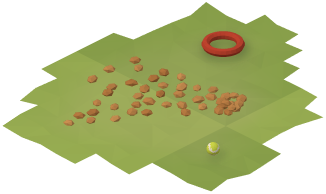
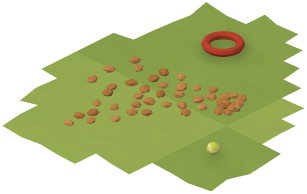
G5d round 2 (row 15): the kibble's lawn wash removed
D58 (Sonnet; the main thread had seen it): a soft pale wash, about +7 to +12 in R and B, lightened and flattened the
board's lawn round the kibble and the ring. It was the decal's own "trampled grass" tint (a lerp toward the fence's
tan, up to 0.18). The grass under the kibble is now copied unchanged, as round the mud and the bowl; the kibble, the
ring and the ball are as they were. On the copied lawn the shift is now R -0.29, B +0.10 on average (the shipped
board's own lossy noise), the same as the mud and the bowl; 28,172 of the decal's opaque pixels equal the clean board
exactly and the 1 to 8 level ones are shadow tails, nearly all darker.

Only mess-kibble.webp and set.json changed (its width, and the note's wording); mud, bowl, board, every gm-*.webp and
the cast keep their exact bytes. The kibble's D58 passes for the new bytes are still to come.

diff --git a/Tools/Art/set/src/mess.js b/Tools/Art/set/src/mess.js
@@ -3,12 +3,11 @@
 // rendered through the board's own frame (render.js, renderDecal), so each lands exactly in its light and perspective.
 //   mud     flat wet mud, darker and glossier toward its middle, two tracks of paw prints leading out of it, fading as
 //           the mud wears off the paws
-//   kibble  a spill of kibble fanning out from a heap, a red rubber ring and a tennis ball, on trampled grass
+//   kibble  a spill of kibble fanning out from a heap, a red rubber ring and a tennis ball
 //   bowl    a steel water bowl knocked over on its side, the puddle flowing out of its mouth, a few drops beyond it
 // Each is three parts, as board.js's lawn() and decalGroup() take them:
-//   tintAt(p, colour)   the grass round its pieces, vertex by vertex: a soft field fading to nothing (the kibble's
-//                       trampled grass), or the colour unchanged (round the mud and the puddle: no stain), or null to
-//                       leave a vertex alone. The lawn's cells it touches are copied with the lawn's own vertices, facet
+//   tintAt(p, colour)   the grass round its pieces, vertex by vertex: the colour unchanged (no stain, no wash, no
+//                       band round any of the three), or null to leave a vertex alone. The lawn's cells it touches are copied with the lawn's own vertices, facet
 //                       tones and occlusion, so they meet the board's lawn exactly; they also join a decal's pieces into
 //                       one patch (no loose specks).
 //   shadeAt(p)          its own baked soft occlusion on the grass (1 everywhere now: the objects are grounded by
@@ -35,7 +34,6 @@ const toWorld = (p) => [-p.z, -p.x, p.y];
 // the toys', the mud's sheen and the steel's highlight.
 export const MC = {
   mud: C.soil, mudDeep: C.soilDeep, sheen: col('#9C8C78'),
-  worn: C.wood, // trampled grass yellows toward the fence's tan
   kibble: col('#B5773D'), kibbleLight: col('#CF9858'),
   ring: col('#C8432F'), ball: col('#D3E84A'), seam: col('#F6F5EE'),
   water: C.water, waterLight: col('#B9D3DD'),
@@ -264,14 +262,12 @@ function kibble(s) {
     { x: Bl.x, y: Bl.y, r: 0.034, dx: 0.45, dy: 0.5 },
   ];
 
-  // trampled grass under all of it (one patch: the hull of everything, a little wider), more round the heap
-  const all = [...pieces.map((q) => [q.x, q.y]), ...contacts.map((c) => [c.x, c.y])];
-  const H = hull(all);
+  // no tint under it: the grass round everything (their hull, a little wider) is the board's own, copied unchanged only
+  // to join the pieces into one patch (a trampled tint toward the fence's tan read as a pale wash: D58, Oct 29)
+  const H = hull([...pieces.map((q) => [q.x, q.y]), ...contacts.map((c) => [c.x, c.y])]);
   const tintAt = (p, clr) => {
     const [x, y] = toWorld(p);
-    const tramp = 1 - sstep(-0.06, 0.2, polySigned([x, y], H)), heap = 1 - sstep(0.05, 0.32, Math.hypot(x - s.x, y - s.y));
-    if (tramp <= 0 && heap <= 0) return null;
-    return clr.clone().lerp(MC.worn, 0.1 * tramp + 0.08 * heap);
+    return polySigned([x, y], H) < 0.2 ? clr : null;
   };
   return { id: s.id, below: s.below, tintAt, shadeAt: () => 1, flats, objects, contacts };
 }

diff --git a/docs/art-provenance/set.md b/docs/art-provenance/set.md
@@ -21,9 +21,9 @@ Code agent, package WP4b-r2) to review round 2, row 15 of `.claude/docs/reviews/
 | `set/gm-done.webp` | the week is over: the band lit a pale warm white | 114 × 240 | 2,834 | `e12e5f32915d` |
 | `set/gm-page-ready.webp`, `set/gm-page-running.webp`, `set/gm-page-done.webp` | the same three at the page's size (64 CSS px), for the status line, the orb centred | 128 × 128 | 2,200; 2,724; 2,512 | `d4b7bfb2b2d9`, `23e8fa0b7bc1`, `d44de11da266` |
 | `set/mess-mud.webp` | the mess under cleanliness 50: flat wet mud, darker and glossier toward its middle, two tracks of paw prints leading out of it | 341 × 414 | 33,392 | `b4a14ed85bc6` |
-| `set/mess-kibble.webp` | under 30: a spill of kibble from a heap, a red rubber ring and a tennis ball, on trampled grass | 326 × 194 | 26,926 | `9c53a1a47040` |
+| `set/mess-kibble.webp` | under 30: a spill of kibble from a heap, a red rubber ring and a tennis ball | 307 × 194 | 21,598 | `3bd31fcda4b1` |
 | `set/mess-bowl.webp` | under 10: a steel water bowl knocked over on its side, the puddle flowing out of its mouth, a few drops | 475 × 203 | 17,726 | `cd9e84ee3af3` |
-| `set.json` | the contract (`manifest.ts`'s `SetManifest`): the board's map, the GM's anchors and `gmSpot`, `mess`, plus `gmPage`, `walk`, `shadow` and `_notes` | | 4,951 | `c23456b97134` |
+| `set.json` | the contract (`manifest.ts`'s `SetManifest`): the board's map, the GM's anchors and `gmSpot`, `mess`, plus `gmPage`, `walk`, `shadow` and `_notes` | | 4,970 | `d74e19f2f06c` |
 
 Every image is at 2× the yard's CSS size, lossy WebP with a real alpha channel (the mess decals: lossless WebP). The hashes are this render's; the
 render is deterministic (two runs on Oct 28 gave byte-identical files), so a rerun on the same tools reproduces them.
@@ -61,6 +61,15 @@ byte-identical (SHA-256 before and after); `set.json` changed only in its `mess`
 bowl's `blocked`) and its `mess` note; `manifest.ts` gained `MessDecal.blocked`. A bug found on the way: the contact
 shadow was first drawn onto a canvas `tinted()` leaves in `source-in`, which wiped every other shadow in the layer
 (the decal check caught it as differences along the fence's shadows).
+
+**The kibble's third render (Oct 29, after the second D58 passes):** the mud and the bowl came back clean from all
+three readers and keep their bytes. The kibble had one defect (Sonnet; the main thread had seen it too): a soft pale
+wash, about +7 to +12 in R and B, lightened and flattened the board's lawn round the pile and the ring (the checker's
+darker diamond with it). It was the decal's own "trampled grass" tint, a lerp toward the fence's tan of up to 0.18. It
+is gone: the grass under the kibble is now copied unchanged, as round the mud and the bowl; the kibble pieces, the ring
+and the ball are as they were. Only `mess-kibble.webp` and `set.json` (the kibble's width, 326 to 307, and the mess
+note's wording: the lawn copied, not tinted) changed; every other file under `src/assets/art/` is byte-identical
+(SHA-256 before and after).
 
 ## The tools
 
@@ -161,10 +170,9 @@ the board again only to take its frame and crop, and stops unless that render's 
      highlight where it mirrors the key light toward the camera. The toys and the bowl are a little darker where they
      meet the grass. Each piece is a little larger than life so the mess reads where the yard draws the board at about
      a third of its pixels.
-   - *The grass round them:* round the kibble, trampled grass tinted vertex by vertex as a soft field that fades to
-     nothing, the way the board bakes its soft occlusion. Round the mud, along its tracks, and round the puddle, the
-     drops and the bowl (with the lawn behind the bowl, so its outline lies on grass), the grass is copied unchanged:
-     no stain, no band. The copied cells are the lawn's own (its vertices, facet tones and occlusion), so they match
+   - *The grass round them* is copied unchanged: under the kibble (the hull of its pieces and toys), round the mud and
+     along its tracks, round the puddle, the drops and the bowl (with the lawn behind the bowl, so its outline lies on
+     grass): no stain, no wash, no band. The copied cells are the lawn's own (its vertices, facet tones and occlusion), so they match
      the board's lawn exactly; they also join each decal's pieces into one patch (no loose specks).
    - *Grounded:* each object has the yard's own contact shadow (`set.json`'s `contactAlpha` 0.42 and `contactBlur`
      2.6, the figures' spec) as soft ellipses on the ground under it, moved toward its lower right; the ring along its
@@ -181,7 +189,7 @@ the board again only to take its frame and crop, and stops unless that render's 
    - *The encoding:* lossless. Lossy WebP at the board's 0.90 put a faint grey fringe on the decals' soft outer edge
      (the encoder blends the colour of a partly clear edge pixel with the black under the clear ones: a master pixel
      (128, 159, 69) at alpha 48 came back (138, 152, 92)); Chromium encodes quality 1 losslessly, and each decal now
-     decodes to exactly its PNG master. 78 KB for the three.
+     decodes to exactly its PNG master. 73 KB for the three.
 
 ## The checks (the package's own, not D58's)
 
@@ -209,16 +217,24 @@ the board again only to take its frame and crop, and stops unless that render's 
     55, 124; the board rendered with all three in place (and their contact shadows) has the same crop.
   - The decals laid on the board against the board rendered with the mess in place: on the lossless masters, at most
     4 levels in any channel inside each decal's box (mean 0.012 to 0.014; 0 pixels over 4) and 0 outside. On the
-    shipped files, every opaque decal pixel equals that render exactly (55,753, 35,313 and 49,155 pixels; worst
-    difference 0); inside the decals' boxes the shipped board with the decals on it differs from it by a mean of 0.49
+    shipped files, every opaque decal pixel equals that render exactly (55,753, 34,592 and 49,155 pixels; worst
+    difference 0); inside the decals' boxes the shipped board with the decals on it differs from it by a mean of 0.47
     to 0.65 levels, below the shipped board's own lossy error outside them (mean 1.05). The images' borders are clear
-    (nothing cut off); partly clear edge pixels (1,814, 994 and 1,197) much darker than an opaque neighbour: 0.
+    (nothing cut off); partly clear edge pixels (1,814, 996 and 1,197) much darker than an opaque neighbour: 0.
+  - No wash (the kibble's third render): each decal's opaque pixels against the lossless clean board, by their largest
+    channel difference: identical for 30,214 of the mud's, 28,172 of the kibble's and 40,639 of the bowl's; 1 to 8
+    levels for 490, 1,837 and 548, nearly all darker (the soft tails of the objects' shadows: 490, 1,815 and 499
+    darker); the rest the mess itself. Laid on the shipped board, the lawn they copy shifts on average by R −0.04,
+    −0.29, −0.29 and B +0.12, +0.10, +0.20 (mud, kibble, bowl; the shipped board's own lossy noise), against the
+    +7 to +12 the readers measured round the kibble before. The amplified maps (×16 against the shipped board, beside
+    the composite): `Temp/set/mess-diff-{mud,kibble,bowl}.png` (a scratch Pillow script).
   - The depth audit for the decals (`auditMess`: the board's rays from every place a figure may stand, off the
     board's blocked rectangles and the decal's own): mud 1,612 places, kibble 1,612, bowl 1,548 (its `blocked`
     [0.91, 4.81, 1.27, 1.22]): **0** rays hit anything of a decal higher than 8 cm.
   - Shadow directions: on the board at 6×, every object's shadow and contact shadow falls to its lower right and none
     toward the light; the grass round the bowl darkens on average to its right (−0.87 in luma) and below (−0.77),
-    against −0.21 to its left and −0.24 above (`Temp/set/mess-zoom6-{ring,ball,bowl,kibble}.png`, a scratch script).
+    against −0.21 to its left and −0.24 above; round the ball −2.29 right and −2.08 below against −0.76 left and −0.88
+    above (`Temp/set/mess-zoom6-{ring,ball,bowl,kibble}.png`, a scratch script).
   - `Tools/Agent/art_qa.py` on the three shipped files (crops at 2× on cream and near-black in
     `Temp/set/qa-mess/`): each 1 figure and 0 specks. On cream and black each shows the patch of lawn it carries
     round its mess; on the board that lawn is the board's own, so it does not show.
